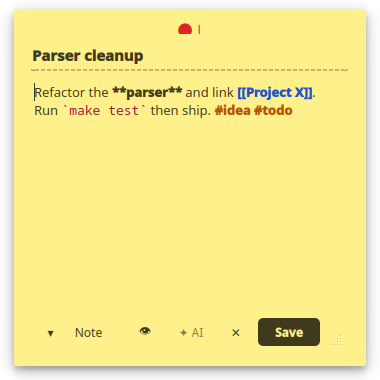
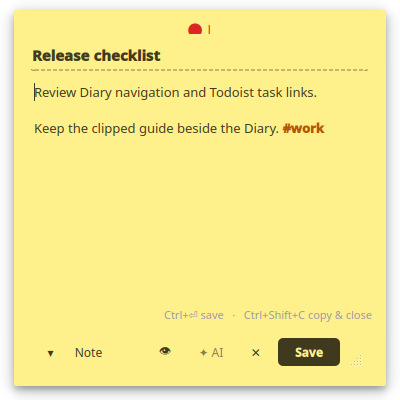
Refresh documentation and screenshots for current UI

diff --git a/src/obsidian_postit_kde/__init__.py b/src/obsidian_postit_kde/__init__.py
@@ -1,4 +1,4 @@
 """obsidian-postit-kde: quick notes from the KDE tray into an Obsidian vault."""
 
-__version__ = "0.2.8"
+__version__ = "0.2.9"
 __app_id__ = "obsidian-postit-kde"

diff --git a/README.md b/README.md
@@ -45,10 +45,11 @@ search, tags and backlinks, no lock-in, no Obsidian process required.
 - 📖 **Read your journal** — one day at a time, starting with today
 - ✍ **Add entries** — a quick box appends a timestamped bullet under today
 - ↔ **Move between days** with `PgUp` / `PgDn` or Prev/Next buttons
+- 🔗 **Open clipped notes** directly from their links in the Diary
 - 📋 **Copy today's entries** to the clipboard in one click
 - ✎ **Edit today's section** or free-edit the whole document (safe atomic save)
 - ✦ **Summarize today** — AI rewrites all of today's entries into one
-- ✅ **Create Todoist tasks** — start an entry with `todo:`; the Diary saves it and sends the rest to Todoist in the background
+- ✅ **Create Todoist tasks** — start an entry with `todo:`; the Diary saves it, creates the task in the background, and adds an **Open in Todoist** link
 
 ### Notes
 - 🎯 **Sticky capture** — the window *is* the note: a yellow post-it with an
@@ -64,6 +65,7 @@ search, tags and backlinks, no lock-in, no Obsidian process required.
 - 🤖 **Optional AI** (OpenRouter), run off the UI thread — key in the system
   keyring (KDE Wallet), **never** in a config file
 - 🚀 **Autostart on login**, managed from Settings
+- ⌨ **KDE global shortcuts** for the Diary, a new note, and a note from the clipboard; configure them in Settings
 
 ## Screenshots
 
@@ -71,11 +73,11 @@ search, tags and backlinks, no lock-in, no Obsidian process required.
 
 | 📔 Diary — your daily journal | 🗒 Note — a sticky post-it |
 |:---:|:---:|
-| <img src="docs/images/diary.png" width="400"/> | <img src="docs/images/note.png" width="300"/> |
+| <img src="docs/images/diary.png" width="400" alt="Diary with day navigation and clickable note and Todoist links"/> | <img src="docs/images/note.png" width="300" alt="Sticky note editor"/> |
 
 | 🔎 Search your notes | ⚙ Settings |
 |:---:|:---:|
-| <img src="docs/images/search.png" width="380"/> | <img src="docs/images/settings.png" width="380"/> |
+| <img src="docs/images/search.png" width="380" alt="Note search results"/> | <img src="docs/images/settings.png" width="380" alt="Settings with Todoist token and KDE shortcuts"/> |
 
 </div>
 
@@ -196,8 +198,8 @@ obsidian-postit-kde mcp-install codex       # Codex
 ## Configuration
 
 Config lives at `~/.config/obsidian-postit-kde/config.toml` (human-editable).
-The OpenRouter API key is stored in the system keyring, or read from the
-`OPENROUTER_API_KEY` environment variable as a fallback.
+OpenRouter and Todoist API tokens are stored in the system keyring. The app also
+accepts `OPENROUTER_API_KEY` and `TODOIST_API_TOKEN` environment variables.
 
 | Key | Default | Meaning |
 |---|---|---|
